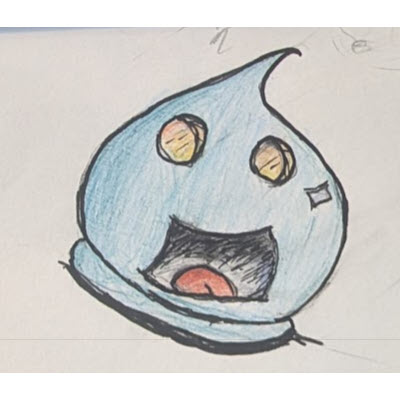
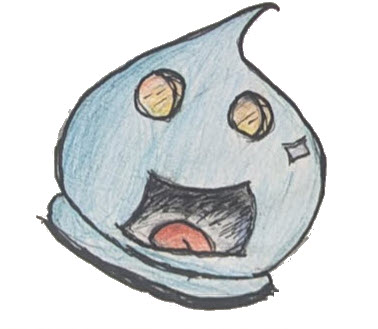
altered the intro section, added cleaned up slime image.

diff --git a/app.css b/app.css
@@ -123,7 +123,7 @@ nav a:hover {
 
 /* INTRO SECTION */
 #intro {
-	padding: 4rem 1rem 10rem 1rem;
+	padding: 4rem 1rem 5rem 1rem;
 	max-width: 1200px;
 	margin: 0 auto;
 }
@@ -147,10 +147,15 @@ nav a:hover {
 	font-size: 4rem;
 	font-weight: normal;
 }
-#introImg{
+/* i need this centered on the page */
+#introImg {
 	width: 10rem;
 	border-radius: 50%;
-	ju
+	padding: 0.5rem;
+	background-color: var(--burntorange);
+	box-shadow: var(--plum) 0 3px 3px 3px;
+	margin: auto;
+	display: block;
 }
 /* Contact Section */
 #contact {

diff --git a/index.html b/index.html
@@ -35,11 +35,10 @@
 		
 			<p>
 				Currently, I'm studying to upgrade my development skills, and writing a
-				drawing pictures
+				drawing pictures!
 			</p>
 			<img id="introImg" src="/assets/SlimeCard.jpg" alt="Blue Slime Creature">
-</section>
-																			<!-- Color -->
+</section>																<!-- Color -->
 <div class="gradient"></div>
 <div class="section-aqua">
 																			<!-- Contact -->

diff --git a/projects.html b/projects.html
@@ -35,7 +35,7 @@
 		
 			<p>
 				Currently, I'm studying to upgrade my development skills, and writing a
-				drawing pictures
+				drawing pictures!
 			</p>
 			<img id="introImg" src="/assets/SlimeCard.jpg" alt="Blue Slime Creature">
 </section>
